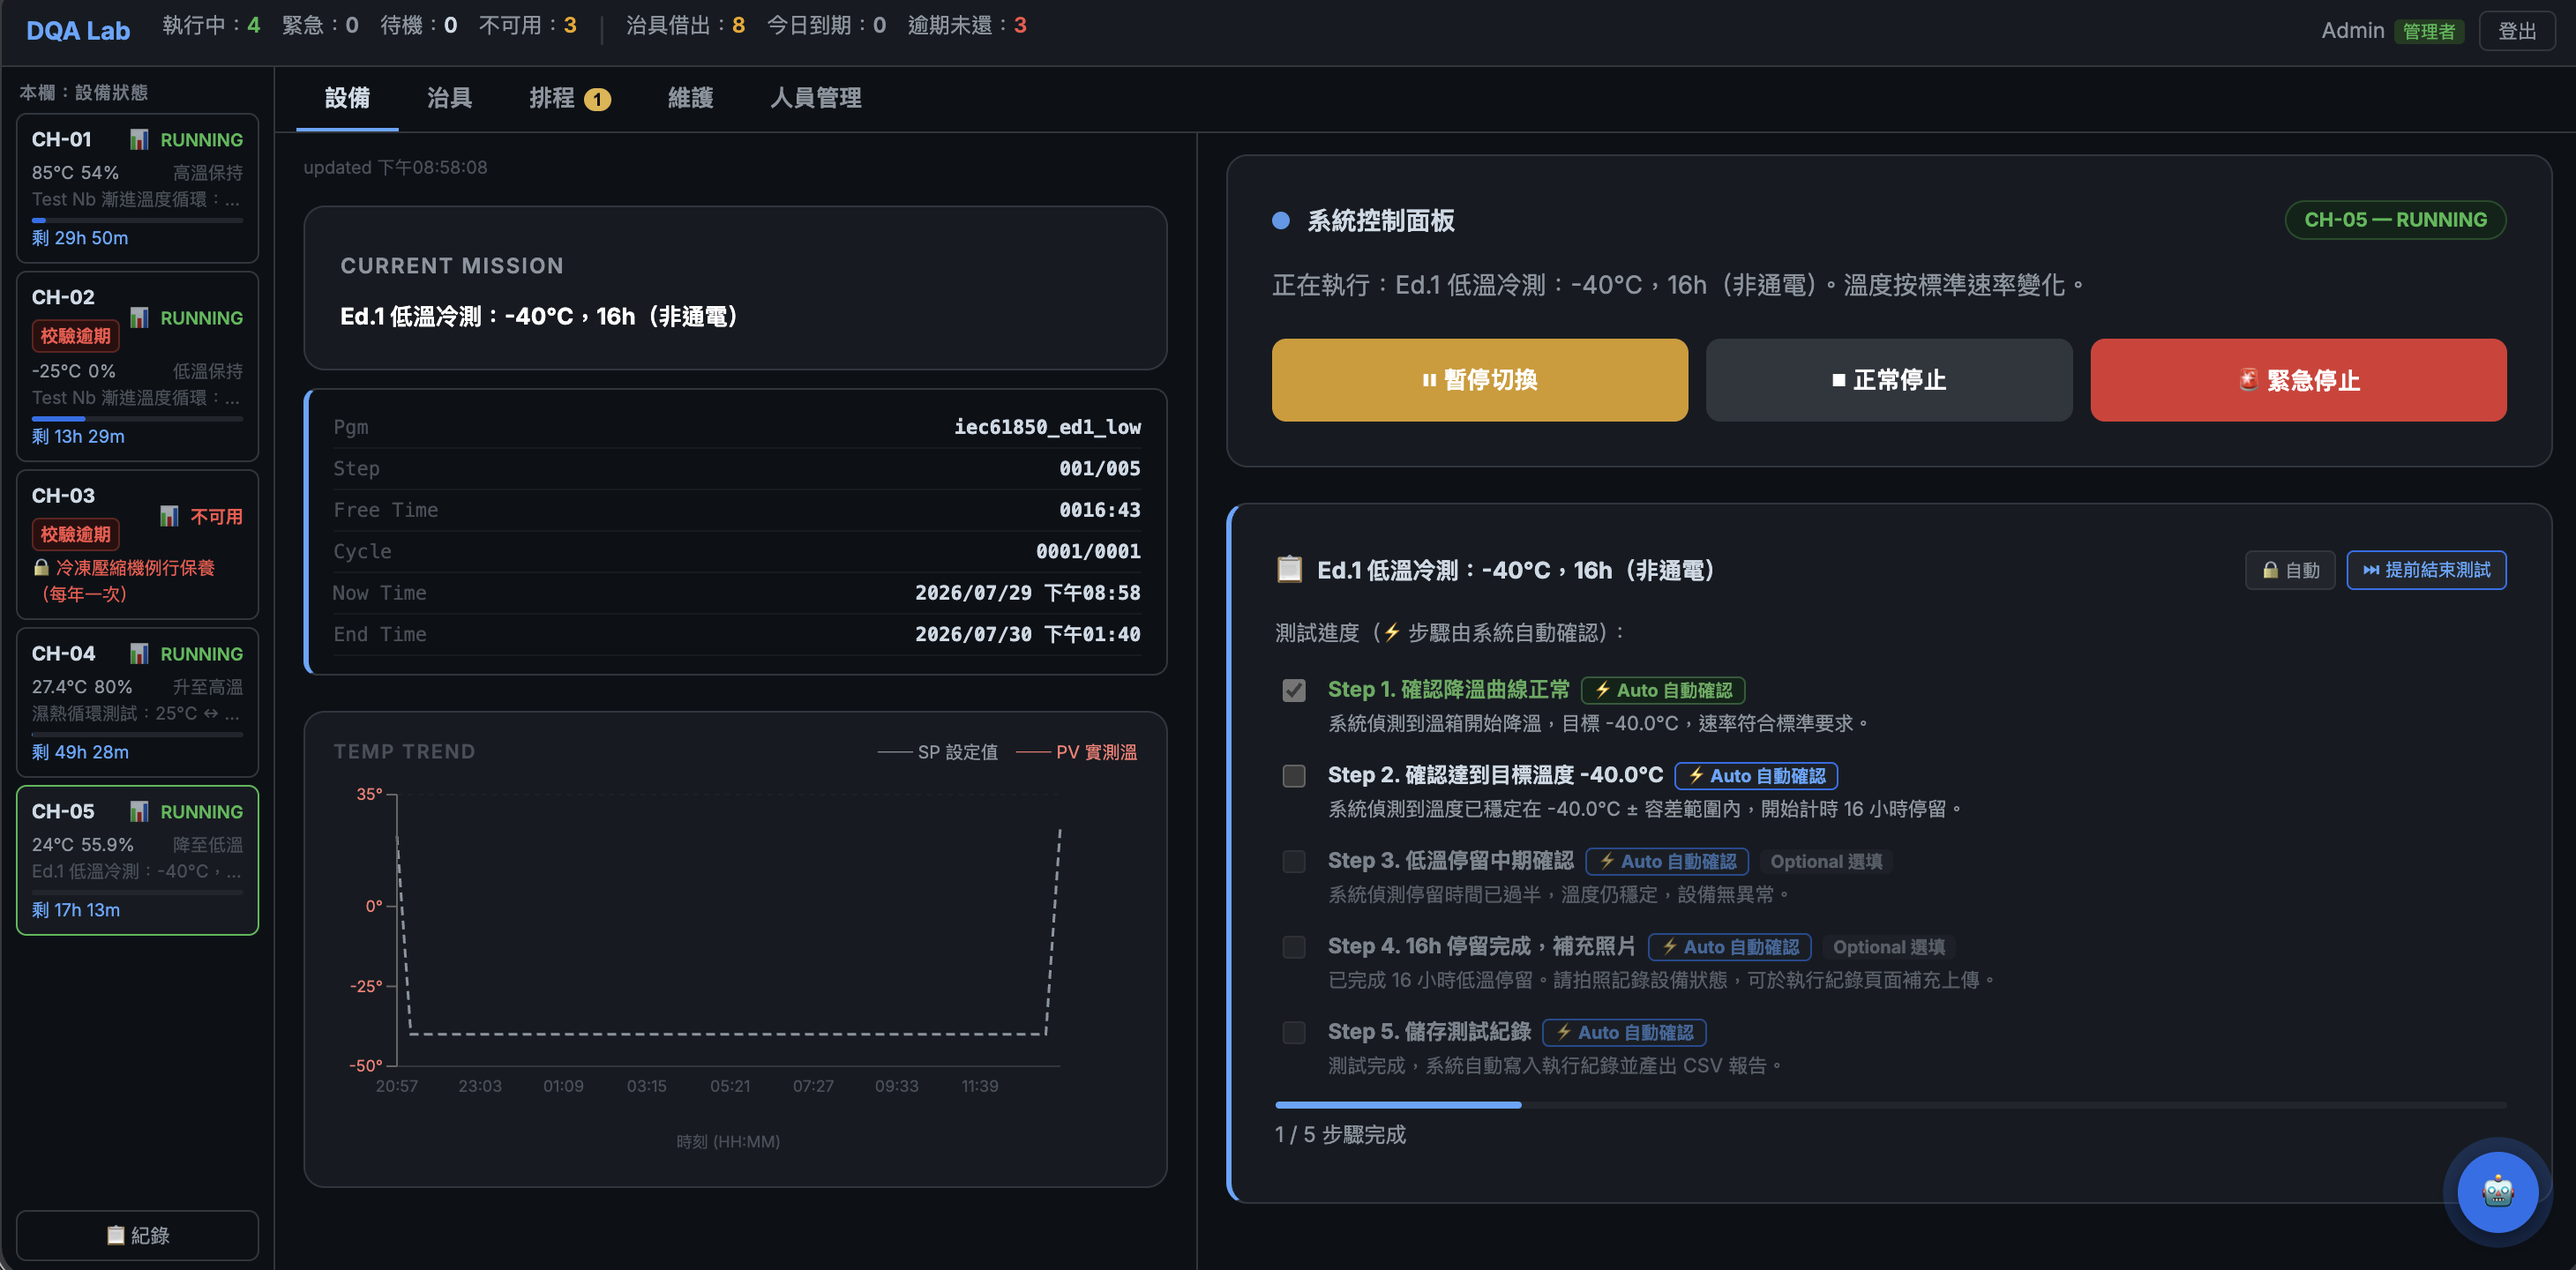
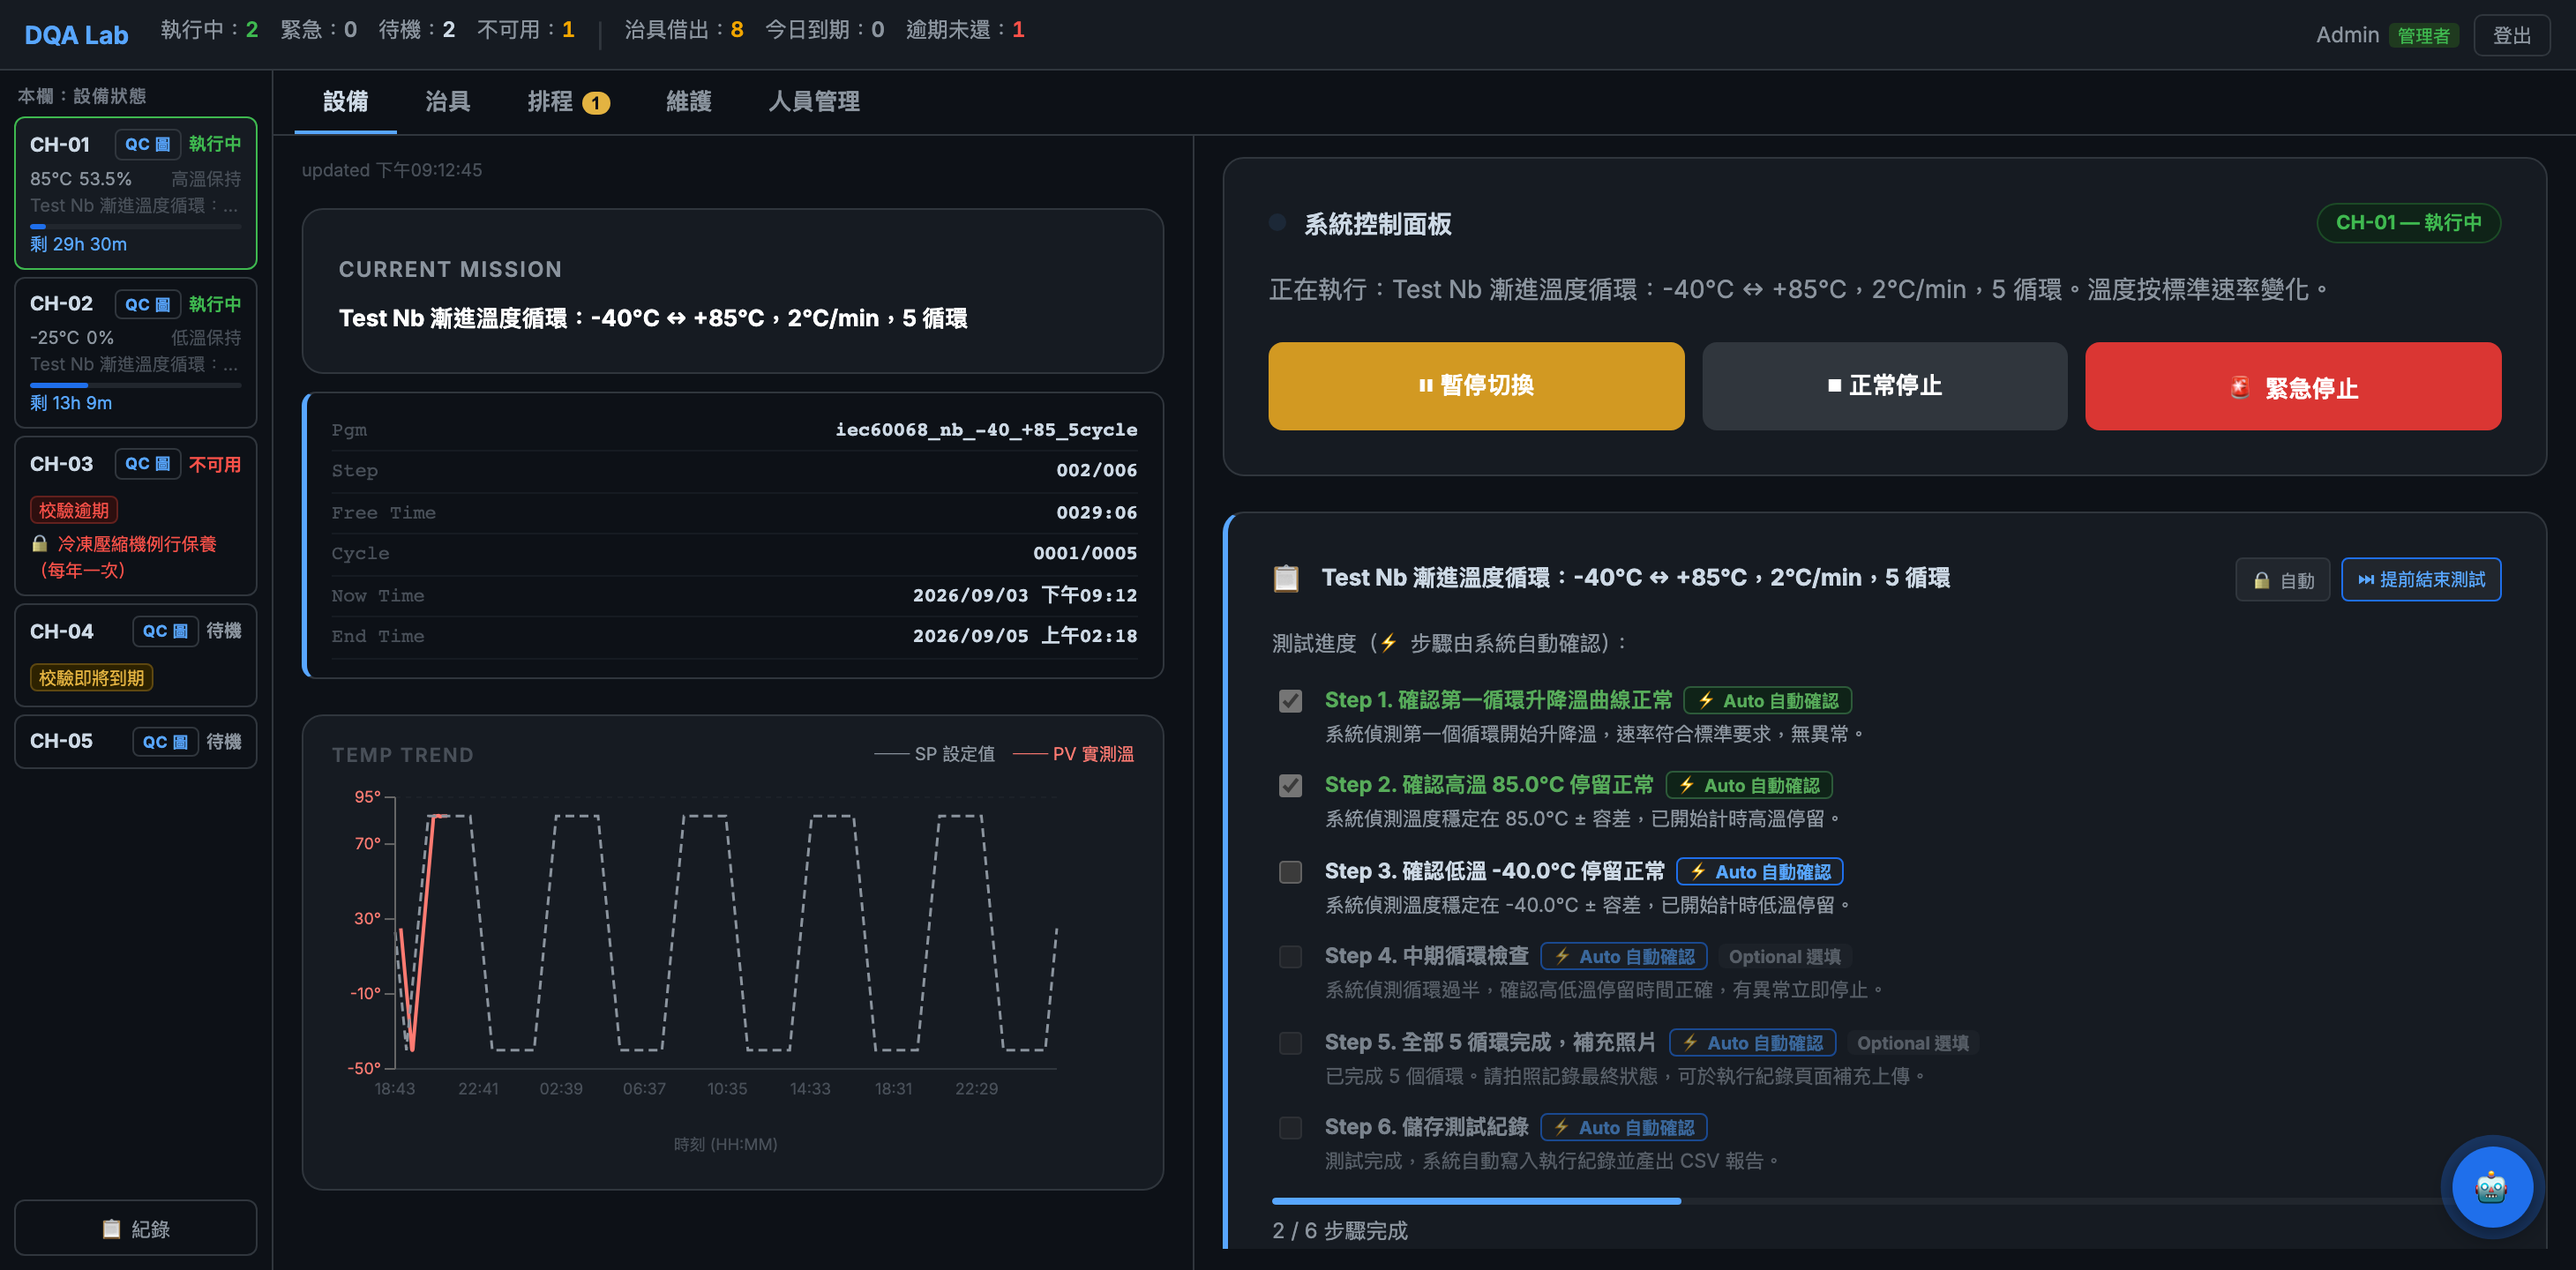
docs: 更新 README 控制中心截圖與替代文字

diff --git a/README.md b/README.md
@@ -22,7 +22,7 @@ short_description: Environmental lab workflow and QA automation portfolio
 
 <img
   src="https://raw.githubusercontent.com/shengsheng-cai/dqa-lab-platform/main/docs/control-center.png"
-  alt="DQA Lab 控制中心：設備狀態、溫度趨勢與低溫冷測 SOP 執行畫面"
+  alt="DQA Lab 控制中心：設備狀態、校驗期限、溫度趨勢與漸進溫度循環 SOP 執行畫面"
   width="100%"
 />
 
